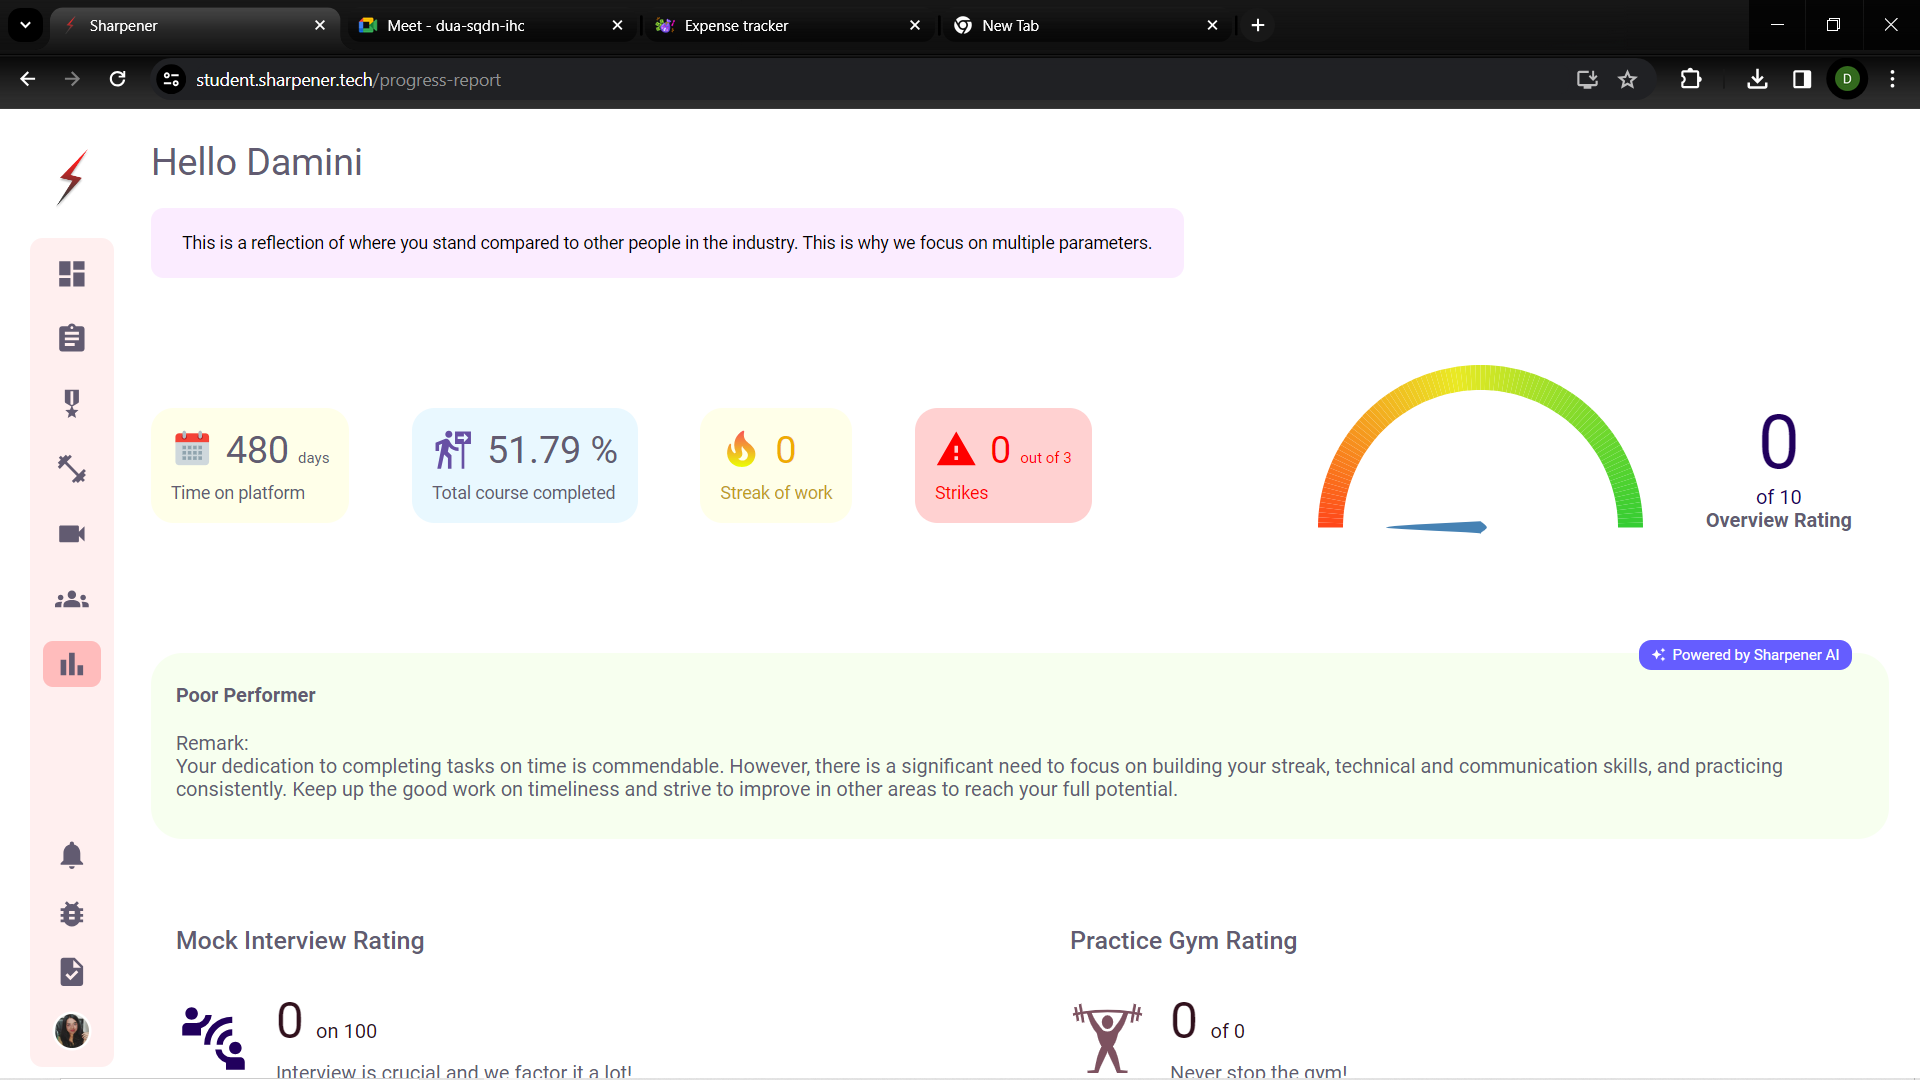
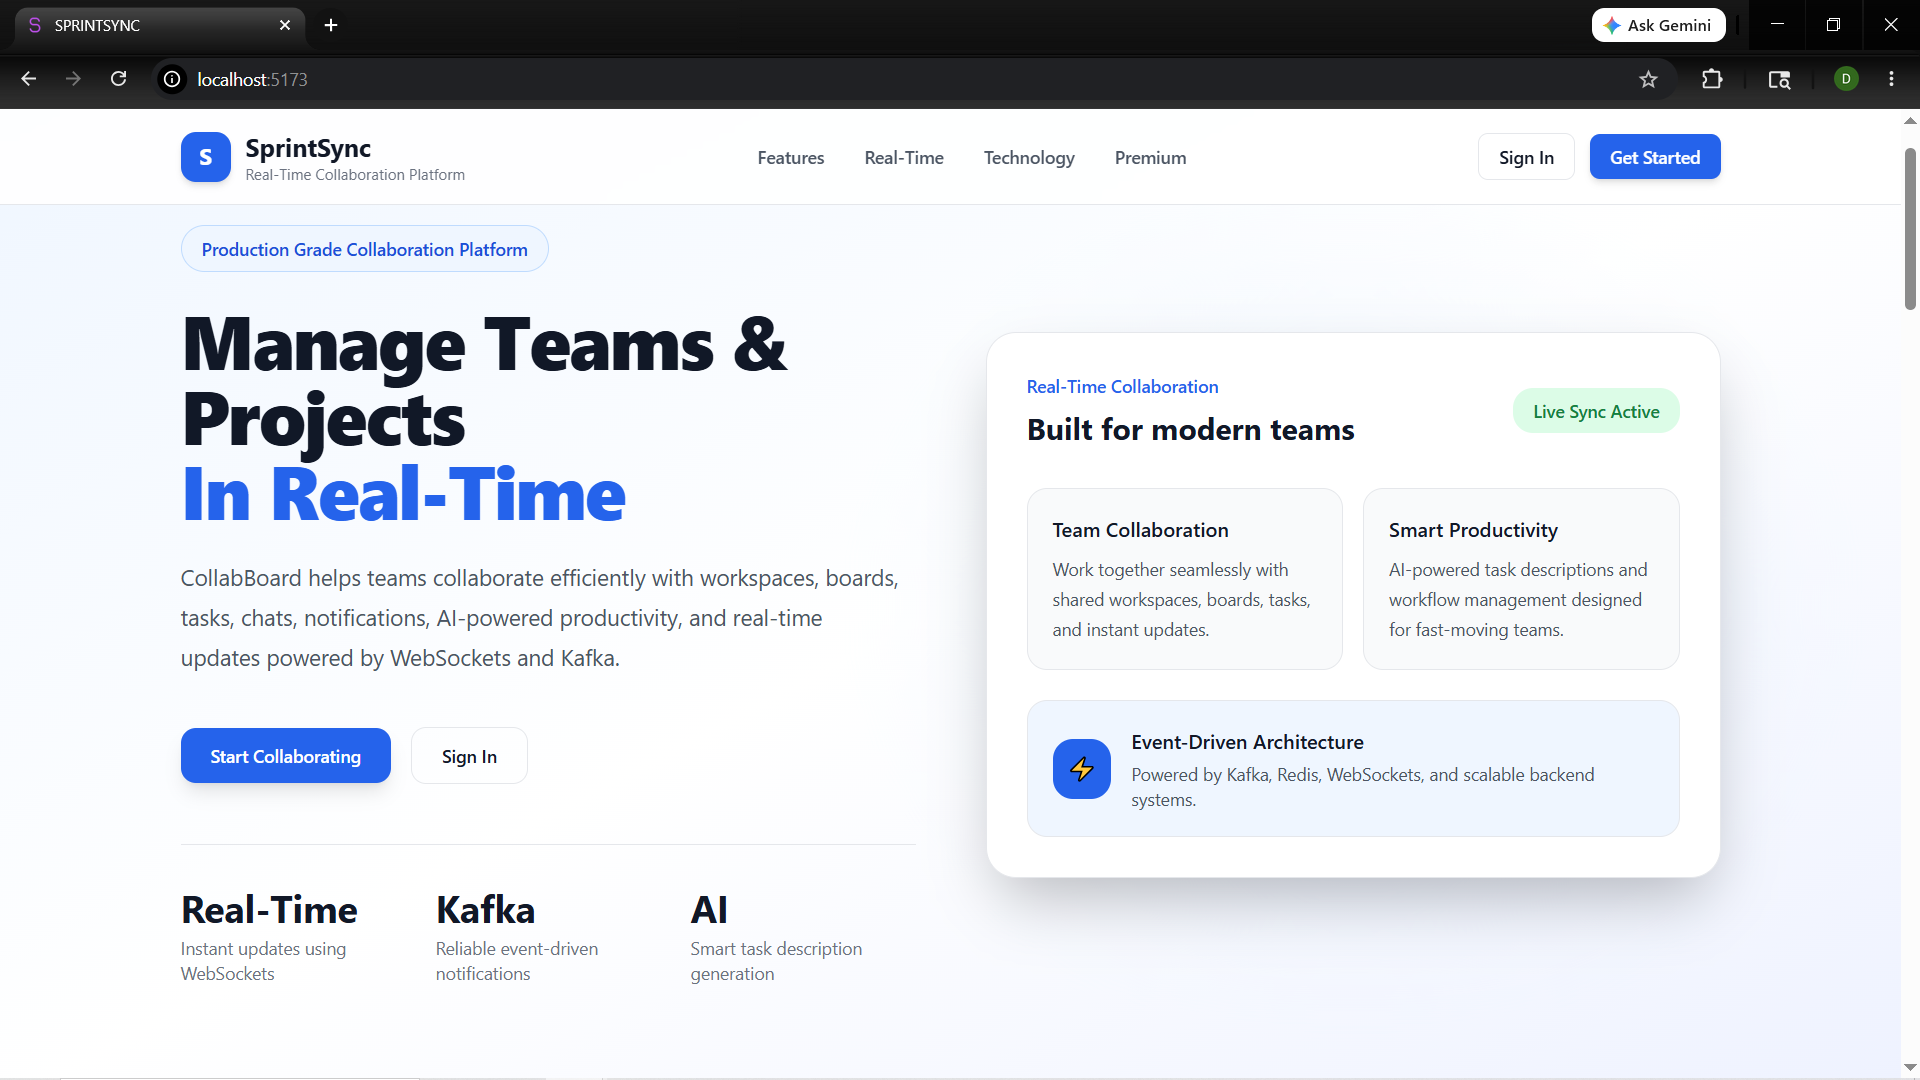
Add images to assets

diff --git a/src/data/projects.js b/src/data/projects.js
@@ -1,5 +1,5 @@
 import collabboardImg from "../assets/spryntsync.png"
-import gotaskyImg from "../assets/gotasky.webp"
+import gotaskyImg from "../assets/gotasky.png"
 import expenseTrackerImg from "../assets/expensemanager.png"
 import circleChatImg from "../assets/circlechat.png"
 import gestureOsImg from "../assets/GestureOs.png"
@@ -76,7 +76,7 @@ export const projects = [
             "MediaPipe",
             "OpenCV",
         ],
-        github: "#",
-        live: "#",
+        github: "https://drive.google.com/file/d/1RQhV7LUTKj7XIjglsUWiL80loheUZH78/view",
+        live: "https://drive.google.com/file/d/19dfBsJmlcwq0aIHeg_vTfwR6-PMe7Y2b/view",
     },
 ];